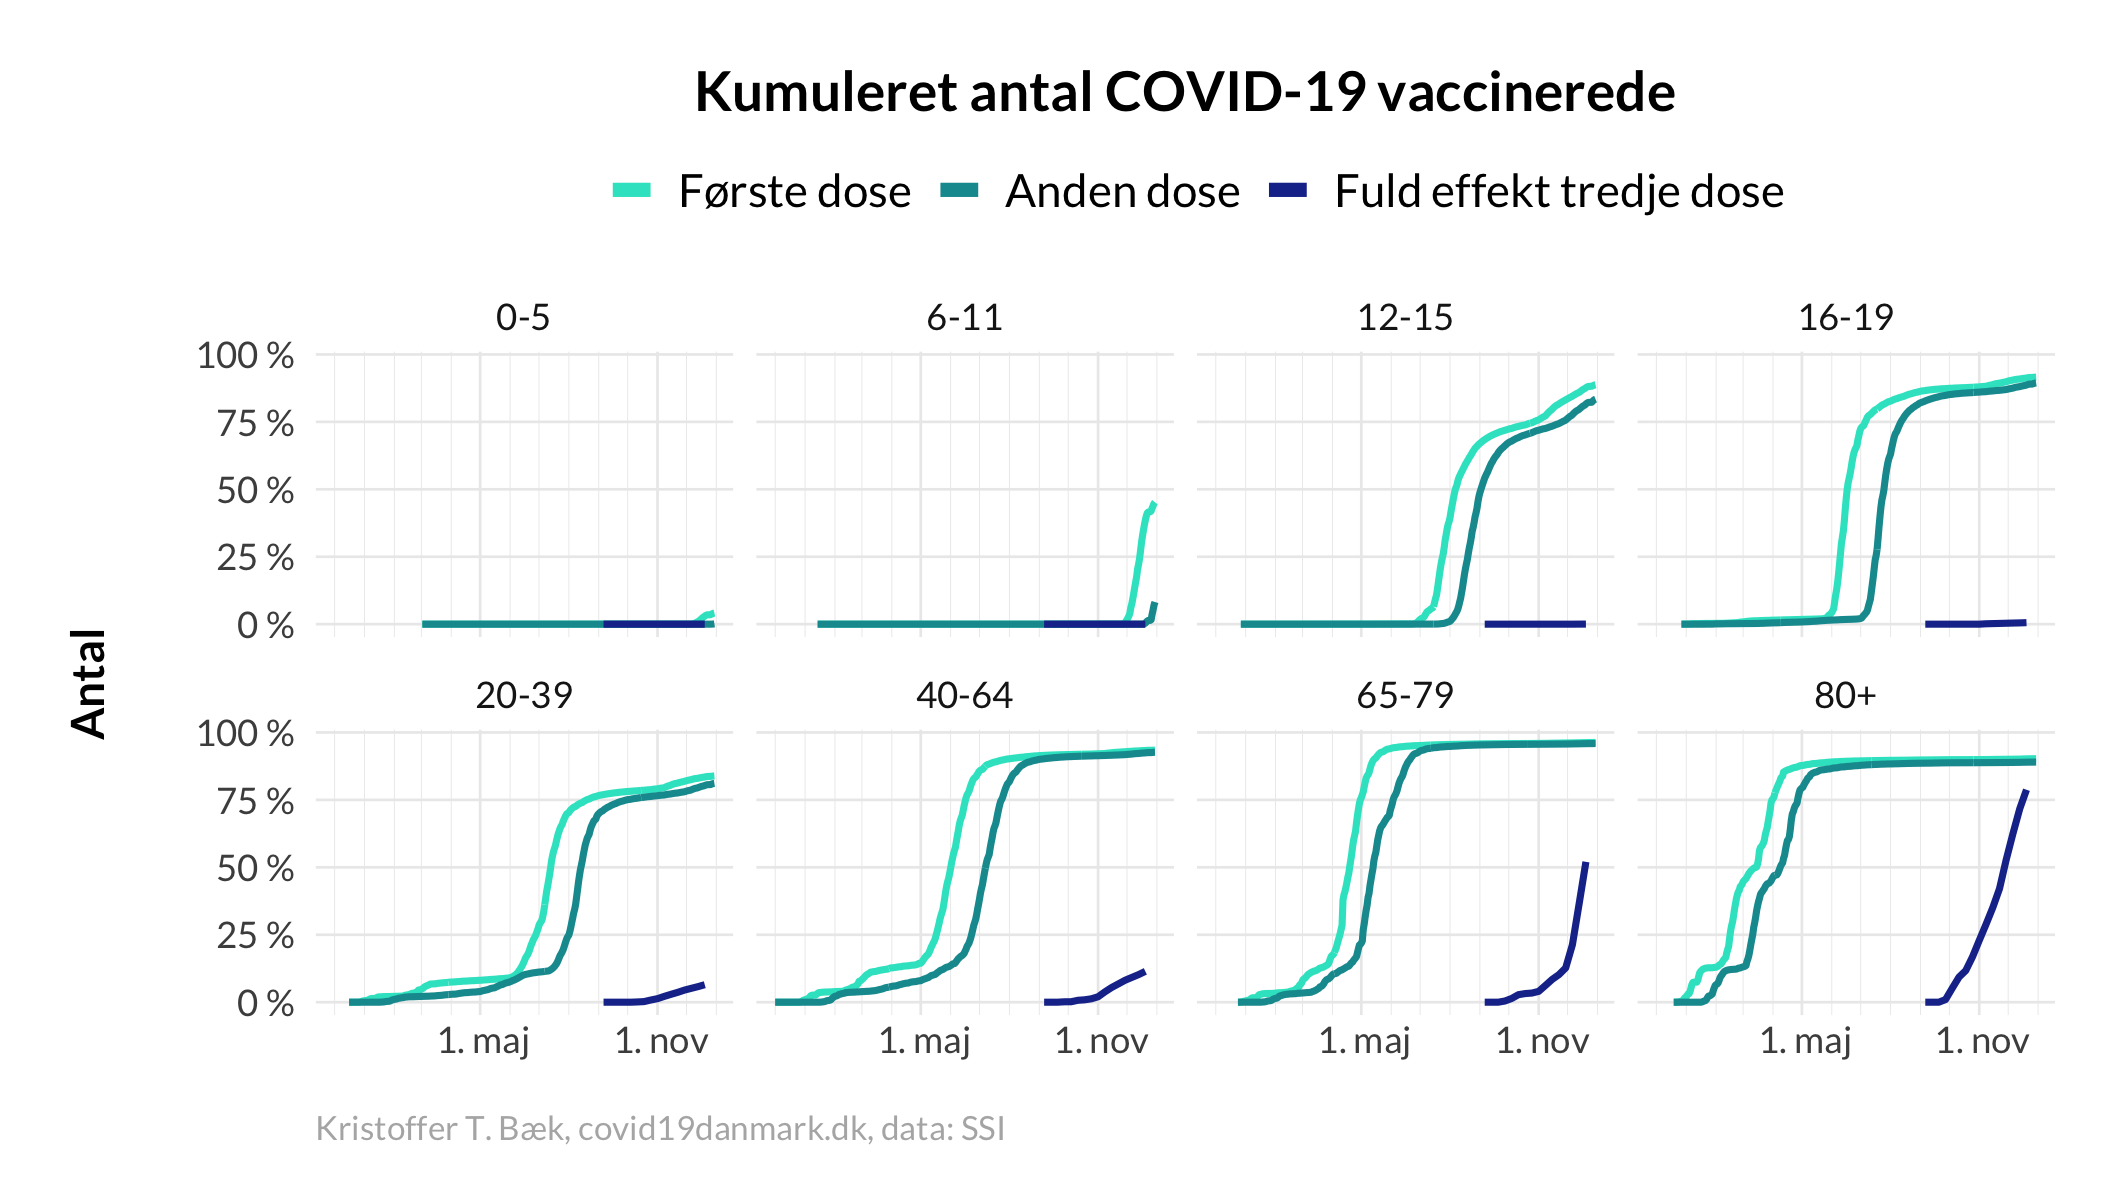
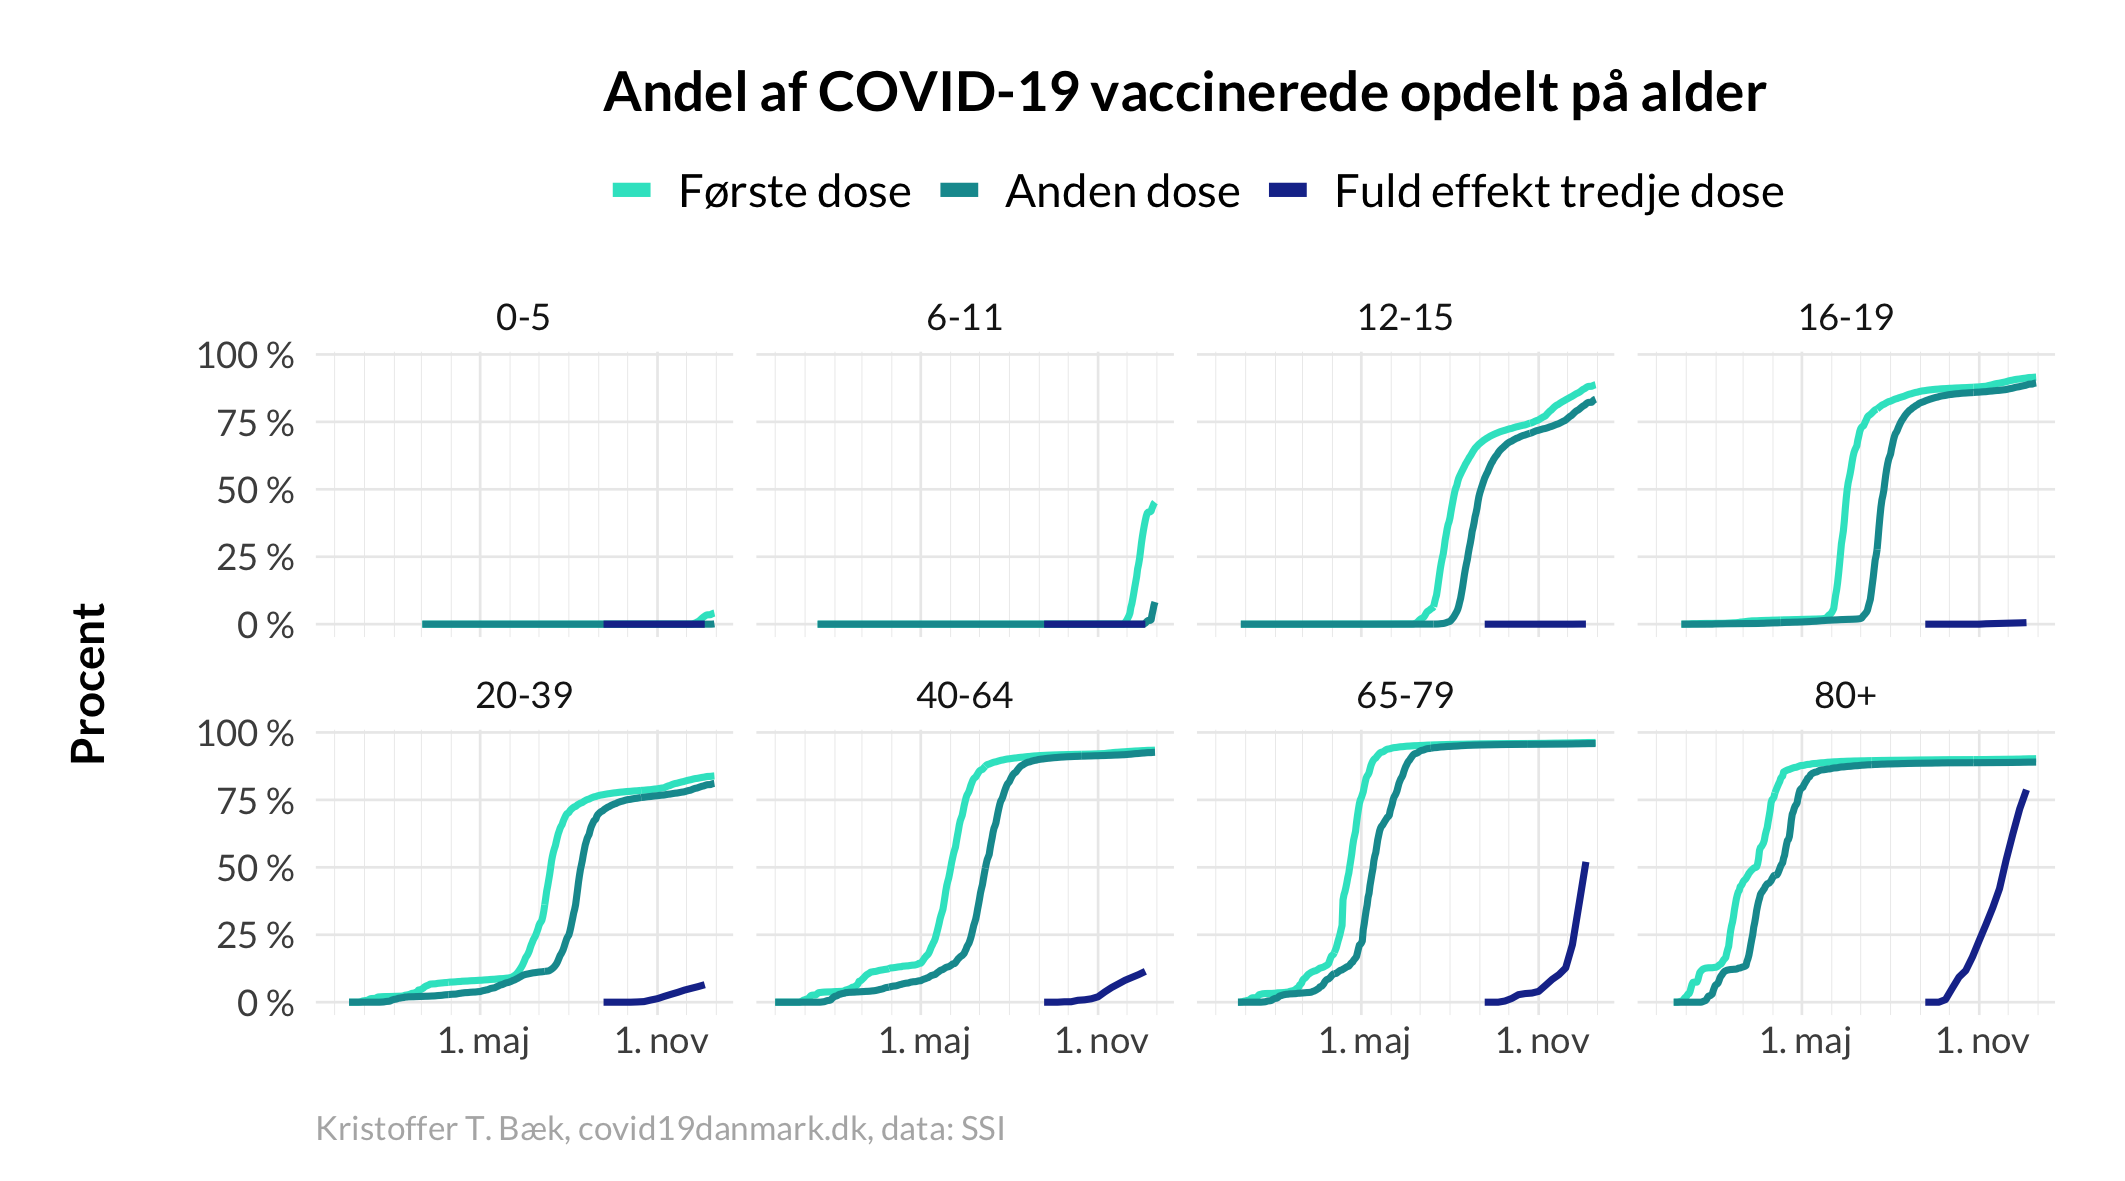
Update plots

Changed region(s): [[0.2795, 0.061, 0.8386, 0.0914], [0.0311, 0.5182, 0.0621, 0.6401]]

diff --git a/index.md b/index.md
@@ -155,16 +155,21 @@ Plottet viser det daglige antal døde (alle årsager) for hver aldersgruppe for 
 
 ### Total antal vaccinerede
 
-Øverste plot viser det kumulerede antal vaccinerede for alle aldre opdelt på dose.
+Plottet viser det kumulerede antal vaccinerede for alle aldre opdelt på dose.
 
-Det midterste plot viser det kumulerede antal vaccinerede opdelt på aldersgruppe og dose. Data for tredje dose er hentet fra et separat ugentligt datasæt hvorfra antal personer som har opnået fuld effekt efter tredje dose kan beregnes (fuld effekt definerer SSI til 14 dage efter enten anden eller tredje dose). Opgørelsesmetoden for personer der har modtaget første og anden dose er derfor ikke nødvendigvis helt identisk med opgørelsesmetoden for personer der har modtaget tredje dose.
+``SSI datasæt: 'FoersteVacc_region_dag', 'FaerdigVacc_region_dag'``
+
+![](/figures/ntl_vax_cum.png)
+
+### Andel vaccinerede i hver aldersgruppe
+
+Det øverste plot viser det kumulerede antal vaccinerede som procentdel af antal personer i aldersgruppen. Data for tredje dose er hentet fra et separat ugentligt datasæt hvorfra antal personer som har opnået fuld effekt efter tredje dose kan beregnes (fuld effekt definerer SSI til 14 dage efter enten anden eller tredje dose). Opgørelsesmetoden for personer der har modtaget første og anden dose er derfor ikke nødvendigvis helt identisk med opgørelsesmetoden for personer der har modtaget tredje dose.
 
 Det nederste plot viser køns-og aldersfordeling for vaccinerede indtil nu som procentdel af antal personer i køn- og aldersgruppen.
 
-``SSI datasæt: 'Vaccinationer_region_aldgrp_koen', 'FoersteVacc_region_dag', 'FaerdigVacc_region_dag', 'FoersteVacc_FaerdigVacc_region_fnkt_alder_dag', 'Gennembrudsinfektioner_table2'``
+``SSI datasæt: 'Vaccinationer_region_aldgrp_koen', 'FoersteVacc_FaerdigVacc_region_fnkt_alder_dag', 'Gennembrudsinfektioner_table2'``
 ``Danmarks Statistik datasæt: 'FOLK1A'``
 
-![](/figures/ntl_vax_cum.png)
 
 ![](/figures/ntl_vax_cum_age.png)
 
